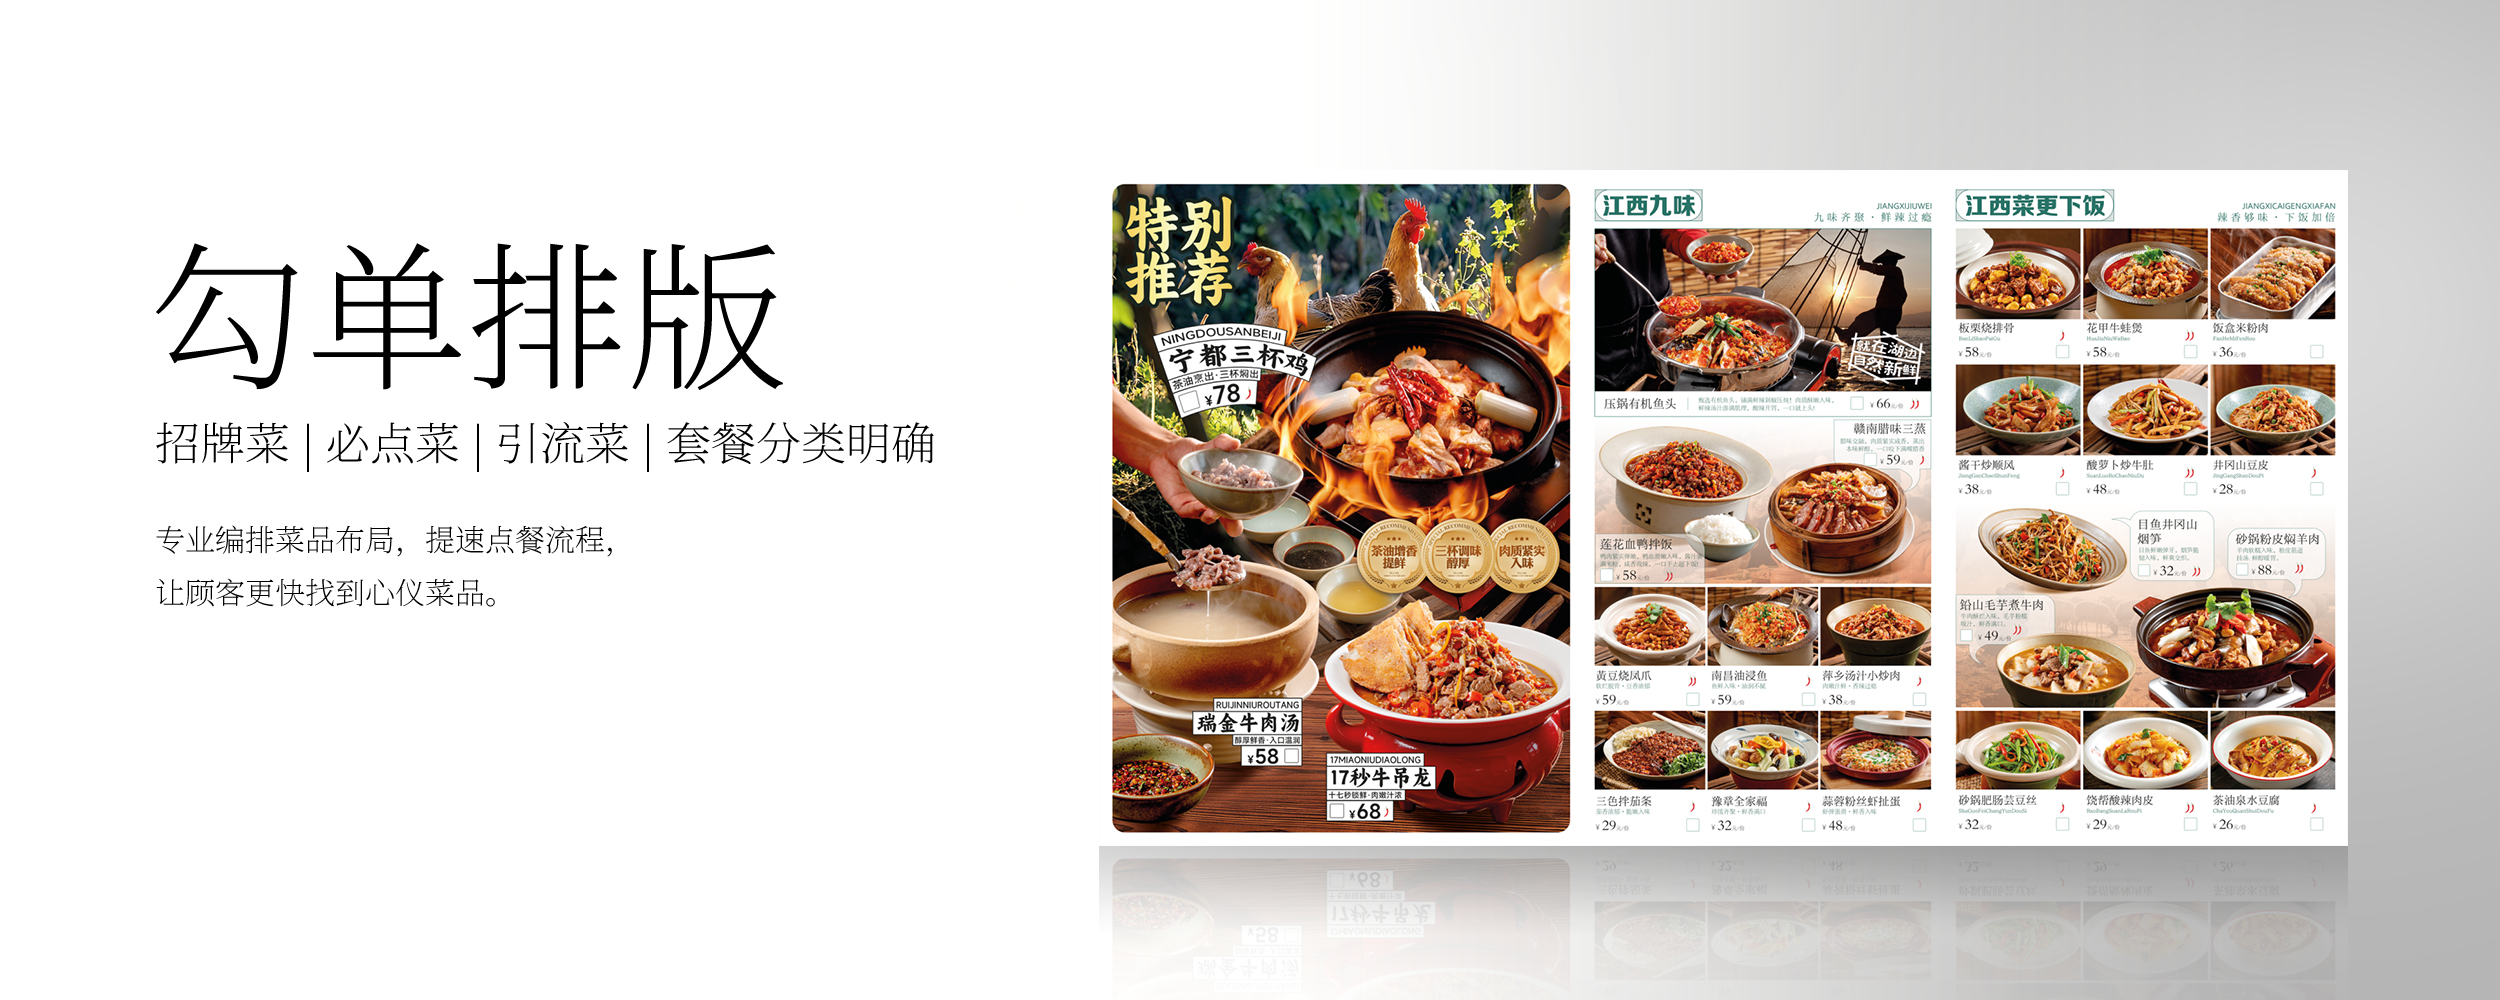
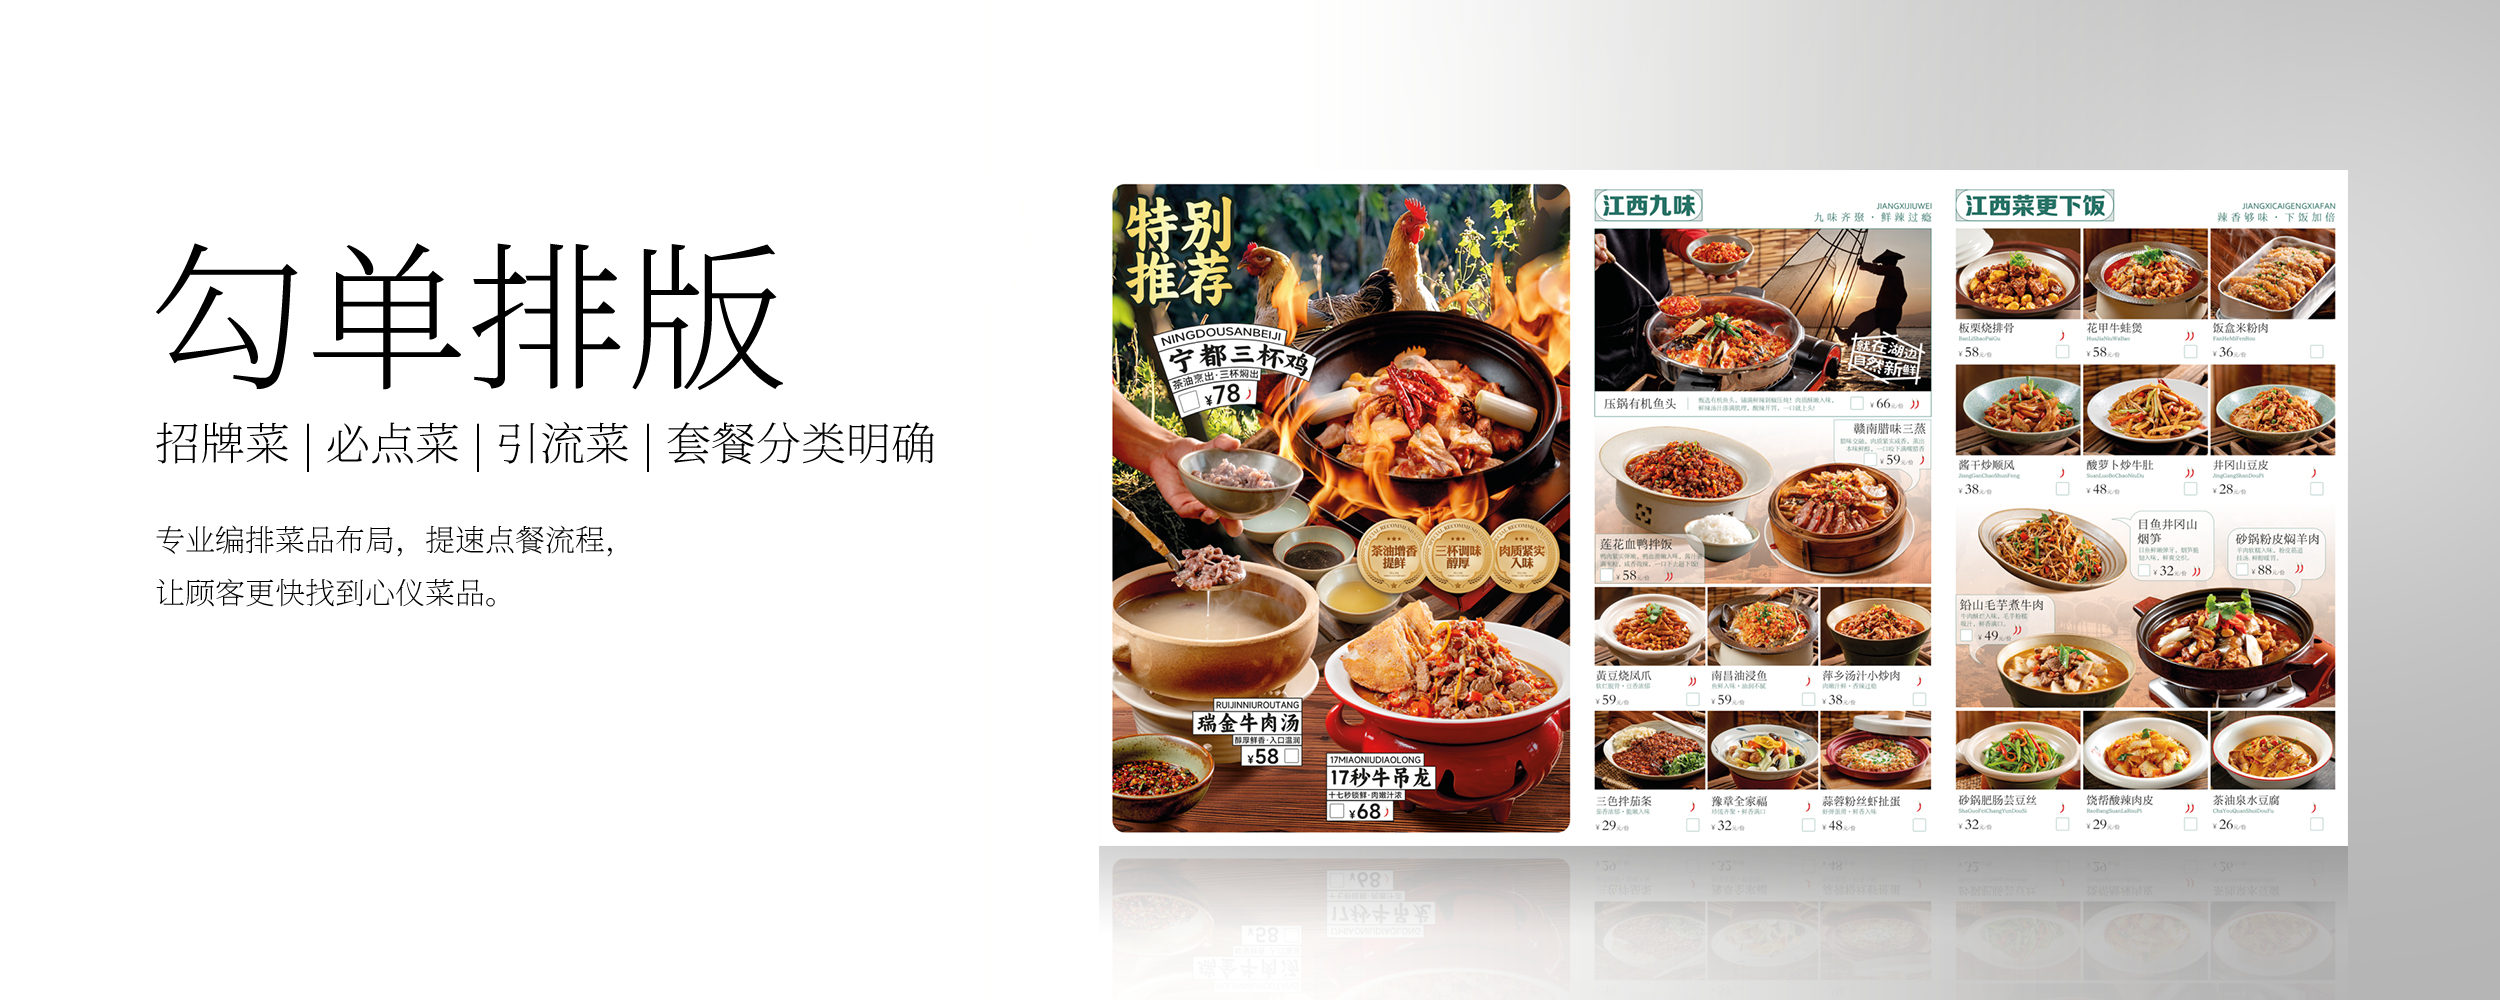
修复网站图片加载并优化静态资源

diff --git a/index.html b/index.html
@@ -43,14 +43,14 @@
 </head>
 <body>
   <header class="site-header">
-    <a class="brand" href="#top" aria-label="菜谱专家首页"><img class="brand-logo" src="assets/images/caipu-logo.jpg" alt="菜谱专家 餐饮广告空间全案"><span class="sr-only">菜谱专家</span></a>
+    <a class="brand" href="#top" aria-label="菜谱专家首页"><img class="brand-logo" src="assets/images/caipu-logo.jpg" width="6697" height="2294" decoding="async" alt="菜谱专家 餐饮广告空间全案"><span class="sr-only">菜谱专家</span></a>
     <nav class="main-nav" aria-label="主导航"><a href="#services">服务场景</a><a href="#capabilities">核心能力</a><a href="#jiangxi">赣菜专场</a><a href="#process">服务流程</a><a href="#contact">联系我们</a></nav>
     <a class="header-phone" href="tel:[phone redacted]">商务咨询 [phone redacted]</a>
   </header>
 
   <main id="top">
     <section class="hero" aria-labelledby="hero-title">
-      <div class="hero-banner"><img src="assets/images/hero-ipad.jpg" alt="iPad超级菜单餐饮点餐视觉展示" fetchpriority="high"><span class="hero-index">01 / FOOD VISUAL PROFIT SYSTEM</span></div>
+      <div class="hero-banner"><img src="assets/images/hero-ipad.jpg" width="2500" height="1000" decoding="async" alt="iPad超级菜单餐饮点餐视觉展示" fetchpriority="high"><span class="hero-index">01 / FOOD VISUAL PROFIT SYSTEM</span></div>
       <div class="hero-info"><div><p class="eyebrow">SINCE 2006 · 餐饮盈利全场景广告服务商</p><h1 id="hero-title">服务餐饮，<em>更懂餐饮</em></h1><p>从菜单设计到整店空间视觉体系落地，让每一个看屏、看墙、扫码、点餐和外卖触点，都服务于消费决策与门店盈利。</p></div><a class="button button-primary" href="#contact">预约门店视觉升级 <span>↗</span></a></div>
       <dl class="hero-stats"><div><dt>20年</dt><dd>餐饮垂直经验</dd></div><div><dt>10000+</dt><dd>全国门店案例</dd></div><div><dt>百万张</dt><dd>赣菜原创图库</dd></div><div><dt>全链路</dt><dd>自有工厂落地</dd></div></dl>
     </section>
@@ -60,13 +60,13 @@
     <section class="section services-section" id="services" aria-labelledby="services-title">
       <div class="section-heading"><p class="eyebrow">01 / SELLING SCENES</p><h2 id="services-title">七大售卖场景，<br><em>每一处都在帮你成交</em></h2><p>参考现代品牌官网的内容节奏，把服务拆成可被理解、可被检索、可被落地的视觉场景。</p></div>
       <div class="service-grid">
-        <article class="service-card service-card-featured"><figure><img src="assets/images/hero-ipad.jpg" alt="iPad超级菜单设计服务" loading="lazy"></figure><div class="service-card-copy"><span class="service-number">01</span><h3>iPad超级菜单</h3><p>中高端中餐、庭院餐饮、商务宴请的理想点餐形式，版式高级、层级清晰。</p></div></article>
-        <article class="service-card"><figure><img src="assets/images/adscreen-menu.jpg" alt="广告屏动态菜单设计服务" loading="lazy"></figure><div class="service-card-copy"><span class="service-number">02</span><h3>广告屏动态菜单</h3><p>动态展示爆款、新品和套餐组合，营造氛围，强化主推。</p></div></article>
-        <article class="service-card"><figure><img src="assets/images/qr-order.jpg" alt="扫码点单视觉菜单设计服务" loading="lazy"></figure><div class="service-card-copy"><span class="service-number">03</span><h3>扫码点单视觉菜单</h3><p>适配大众餐饮、快餐、夜宵、火锅及连锁品牌，减少选择困扰。</p></div></article>
-        <article class="service-card"><figure><img src="assets/images/takeout-visuals.jpg" alt="外卖平台整套视觉设计服务" loading="lazy"></figure><div class="service-card-copy"><span class="service-number">04</span><h3>外卖平台整套视觉</h3><p>统一菜品主图、构图、光影和文案调性，提升点击率与转化率。</p></div></article>
-        <article class="service-card"><figure><img src="assets/images/menu-layout.jpg" alt="餐饮勾单排版设计服务" loading="lazy"></figure><div class="service-card-copy"><span class="service-number">05</span><h3>勾单排版</h3><p>招牌菜、必点菜、引流菜、套餐分类明确，提速点餐流程。</p></div></article>
-        <article class="service-card"><figure><img src="assets/images/soft-lightbox.jpg" alt="软膜灯箱与灯片灯箱设计制作服务" loading="lazy"></figure><div class="service-card-copy"><span class="service-number">06</span><h3>软膜灯箱 / 灯片灯箱</h3><p>突出爆品、招牌、必点与餐饮文化，塑造点餐区核心视觉。</p></div></article>
-        <article class="service-card service-card-wide"><figure><img src="assets/images/scene-poster.jpg" alt="墙面文化与场景化菜单设计服务" loading="lazy"></figure><div class="service-card-copy"><span class="service-number">07</span><h3>墙面文化 · 场景化菜单</h3><p>融入在地文化、菜系渊源、品牌故事与烹饪理念，让菜品文化成为门店独特记忆。</p></div></article>
+        <article class="service-card service-card-featured"><figure><img src="assets/images/hero-ipad.jpg" width="2500" height="1000" decoding="async" alt="iPad超级菜单设计服务" loading="lazy"></figure><div class="service-card-copy"><span class="service-number">01</span><h3>iPad超级菜单</h3><p>中高端中餐、庭院餐饮、商务宴请的理想点餐形式，版式高级、层级清晰。</p></div></article>
+        <article class="service-card"><figure><img src="assets/images/adscreen-menu.jpg" width="2500" height="1000" decoding="async" alt="广告屏动态菜单设计服务" loading="lazy"></figure><div class="service-card-copy"><span class="service-number">02</span><h3>广告屏动态菜单</h3><p>动态展示爆款、新品和套餐组合，营造氛围，强化主推。</p></div></article>
+        <article class="service-card"><figure><img src="assets/images/qr-order.jpg" width="2500" height="1000" decoding="async" alt="扫码点单视觉菜单设计服务" loading="lazy"></figure><div class="service-card-copy"><span class="service-number">03</span><h3>扫码点单视觉菜单</h3><p>适配大众餐饮、快餐、夜宵、火锅及连锁品牌，减少选择困扰。</p></div></article>
+        <article class="service-card"><figure><img src="assets/images/takeout-visuals.jpg" width="2500" height="1000" decoding="async" alt="外卖平台整套视觉设计服务" loading="lazy"></figure><div class="service-card-copy"><span class="service-number">04</span><h3>外卖平台整套视觉</h3><p>统一菜品主图、构图、光影和文案调性，提升点击率与转化率。</p></div></article>
+        <article class="service-card"><figure><img src="assets/images/menu-layout.jpg" width="2500" height="1000" decoding="async" alt="餐饮勾单排版设计服务" loading="lazy"></figure><div class="service-card-copy"><span class="service-number">05</span><h3>勾单排版</h3><p>招牌菜、必点菜、引流菜、套餐分类明确，提速点餐流程。</p></div></article>
+        <article class="service-card"><figure><img src="assets/images/soft-lightbox.jpg" width="2500" height="1000" decoding="async" alt="软膜灯箱与灯片灯箱设计制作服务" loading="lazy"></figure><div class="service-card-copy"><span class="service-number">06</span><h3>软膜灯箱 / 灯片灯箱</h3><p>突出爆品、招牌、必点与餐饮文化，塑造点餐区核心视觉。</p></div></article>
+        <article class="service-card service-card-wide"><figure><img src="assets/images/scene-poster.jpg" width="2500" height="1000" decoding="async" alt="墙面文化与场景化菜单设计服务" loading="lazy"></figure><div class="service-card-copy"><span class="service-number">07</span><h3>墙面文化 · 场景化菜单</h3><p>融入在地文化、菜系渊源、品牌故事与烹饪理念，让菜品文化成为门店独特记忆。</p></div></article>
         <aside class="service-info-card"><div><p class="eyebrow">ONE STORE · ONE SYSTEM</p><h3>一套视觉系统，覆盖七个消费触点</h3><p>从看屏、看墙、扫码、点餐到外卖浏览，统一素材、统一调性、统一落地，让门店每一处画面都服务于成交。</p></div><ul><li>菜单结构与菜品层级</li><li>空间氛围与文化表达</li><li>屏幕、灯箱与外卖视觉</li><li>拍摄、设计、制作一体交付</li></ul><a class="button button-light" href="#contact">咨询全场景方案 <span>↗</span></a></aside>
       </div>
     </section>

diff --git a/contact-form.html b/contact-form.html
@@ -12,7 +12,7 @@
 </head>
 <body>
   <header class="site-header">
-    <a class="brand" href="index.html" aria-label="返回菜谱专家首页"><img class="brand-logo" src="assets/images/caipu-logo.jpg" alt="菜谱专家 餐饮广告空间全案"><span class="sr-only">菜谱专家</span></a>
+    <a class="brand" href="index.html" aria-label="返回菜谱专家首页"><img class="brand-logo" src="assets/images/caipu-logo.jpg" width="6697" height="2294" decoding="async" alt="菜谱专家 餐饮广告空间全案"><span class="sr-only">菜谱专家</span></a>
     <a class="header-phone" href="tel:[phone redacted]">商务咨询 [phone redacted]</a>
   </header>
 